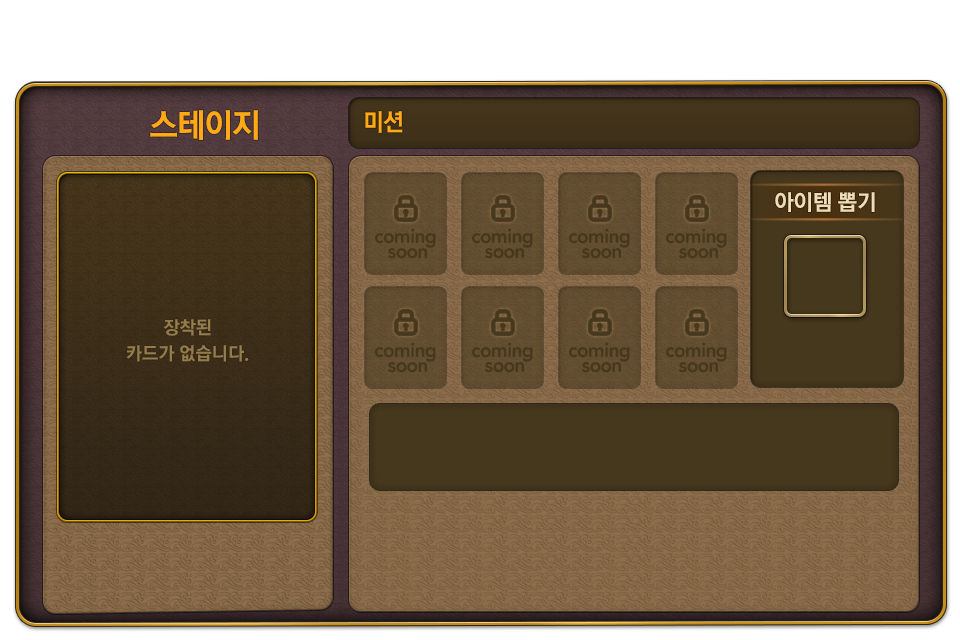
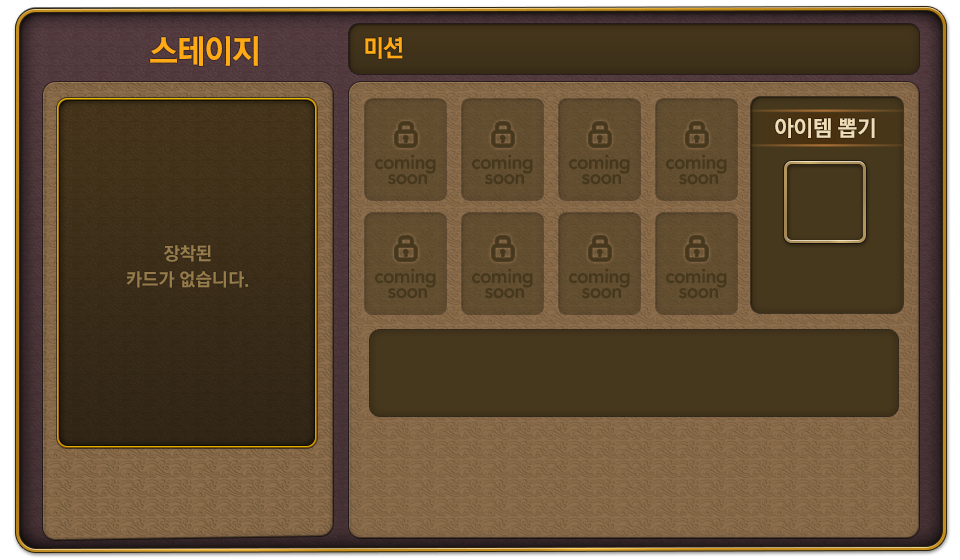
아이템셋팅씬 back이미지 수정으로 인한 좌표 수정

diff --git a/Classes/StartSettingScene.cpp b/Classes/StartSettingScene.cpp
@@ -126,7 +126,7 @@ void StartSettingScene::setMain()
 		stage_number = mySD->getSilType();
 		
 		CCLabelTTF* stage_number_label = CCLabelTTF::create(CCString::createWithFormat("%d", stage_number)->getCString(),	mySGD->getFont().c_str(), 15);
-		stage_number_label->setPosition(ccp(49, main_case->getContentSize().height-64));
+		stage_number_label->setPosition(ccp(49, main_case->getContentSize().height-67));
 		main_case->addChild(stage_number_label);
 		
 		is_before_selected_event_stage = true;
@@ -139,7 +139,7 @@ void StartSettingScene::setMain()
 		int piece_number = NSDS_GI(puzzle_number, kSDS_PZ_stage_int1_pieceNo_i, stage_number);
 		
 		CCLabelTTF* piece_number_label = CCLabelTTF::create(CCString::createWithFormat("%d-%d", puzzle_number, piece_number)->getCString(),	mySGD->getFont().c_str(), 15);
-		piece_number_label->setPosition(ccp(49, main_case->getContentSize().height-64));
+		piece_number_label->setPosition(ccp(49, main_case->getContentSize().height-67));
 		main_case->addChild(piece_number_label);
 		
 		is_before_selected_event_stage = false;
@@ -152,7 +152,7 @@ void StartSettingScene::setMain()
 	
 	LabelTTFMarquee* mission_label = LabelTTFMarquee::create(ccc4(0, 0, 0, 0), 230, 22, mySD->getConditionContent(stage_number).c_str());
 	mission_label->setAnchorPoint(ccp(0.5,0.5));
-	mission_label->setPosition(ccp(main_case->getContentSize().width/2.f+80, main_case->getContentSize().height-62));
+	mission_label->setPosition(ccp(main_case->getContentSize().width/2.f+80, main_case->getContentSize().height-65));
 	main_case->addChild(mission_label);
 	mission_label->setFontSize(13);
 	mission_label->startMarquee();
@@ -179,7 +179,7 @@ void StartSettingScene::setMain()
 	back_item->setTag(kStartSettingMenuTag_back);
 	
 	CCMenu* back_menu = CCMenu::createWithItem(back_item);
-	back_menu->setPosition(ccp(main_case->getContentSize().width-28, main_case->getContentSize().height-62));
+	back_menu->setPosition(ccp(main_case->getContentSize().width-28, main_case->getContentSize().height-65));
 	main_case->addChild(back_menu);
 	
 	CCSprite* n_card_turn = CCSprite::create("startsetting_cardturn.png");
@@ -190,7 +190,7 @@ void StartSettingScene::setMain()
 	card_turn_item->setTag(kStartSettingMenuTag_turn);
 	
 	card_turn_menu = CCMenu::createWithItem(card_turn_item);
-	card_turn_menu->setPosition(ccp(133,36));
+	card_turn_menu->setPosition(ccp(133,33));
 	card_turn_menu->setVisible(false);
 	main_case->addChild(card_turn_menu);
 	
@@ -216,7 +216,7 @@ void StartSettingScene::setMain()
 	card_change_item->setTag(kStartSettingMenuTag_card);
 	
 	CCMenu* card_menu = CCMenu::createWithItem(card_change_item);
-	card_menu->setPosition(ccp(64,36));
+	card_menu->setPosition(ccp(64,33));
 	main_case->addChild(card_menu);
 	
 	
@@ -265,7 +265,7 @@ void StartSettingScene::setMain()
 	{
 		ITEM_CODE t_ic = item_list[i];
 		
-		CCPoint item_position = ccp(203 + (i%4)*48.5f, 208 - (i/4)*57);
+		CCPoint item_position = ccp(203 + (i%4)*48.5f, 205 - (i/4)*57);
 		
 		deque<int>::iterator iter = find(card_options.begin(), card_options.end(), t_ic);
 		if(iter == card_options.end()) // not same option card // enable item
@@ -405,7 +405,7 @@ void StartSettingScene::setMain()
 	start_item->setTag(kStartSettingMenuTag_start);
 	
 	CCMenu* start_menu = CCMenu::createWithItem(start_item);
-	start_menu->setPosition(ccp(316, 47));
+	start_menu->setPosition(ccp(316, 44));
 	main_case->addChild(start_menu);
 }
 
@@ -436,7 +436,7 @@ void StartSettingScene::changeCard()
 		int card_level = NSDS_GI(kSDS_CI_int1_grade_i, selected_card_number);
 		
 		card_img = CCNode::create();
-		card_img->setPosition(ccp(94, 147));
+		card_img->setPosition(ccp(94, 144));
 		main_case->addChild(card_img);
 		
 		CCSprite* real_card_img = mySIL->getLoadedImg(CCString::createWithFormat("stage%d_level%d_visible.png", card_stage, card_level)->getCString());
@@ -694,7 +694,7 @@ void StartSettingScene::itemAction(CCObject *sender)
 		
 		item_title_label = CCLabelTTF::create(convertToItemCodeToItemName(item_list[tag-1]).c_str(), mySGD->getFont().c_str(), 10, CCSizeMake(250, 16), kCCTextAlignmentLeft, kCCVerticalTextAlignmentTop);
 		item_title_label->setAnchorPoint(ccp(0,1));
-		item_title_label->setPosition(ccp(192, 115));
+		item_title_label->setPosition(ccp(192, 112));
 		item_title_label->setColor(ccORANGE);
 		main_case->addChild(item_title_label);
 		
@@ -706,7 +706,7 @@ void StartSettingScene::itemAction(CCObject *sender)
 		
 		option_label = CCLabelTTF::create(mySD->getItemScript(item_list[tag-1]).c_str(), mySGD->getFont().c_str(), 8, CCSizeMake(250, 23), kCCTextAlignmentLeft, kCCVerticalTextAlignmentTop);
 		option_label->setAnchorPoint(ccp(0,1));
-		option_label->setPosition(ccp(192, 100));
+		option_label->setPosition(ccp(192, 97));
 		main_case->addChild(option_label);
 		
 		
